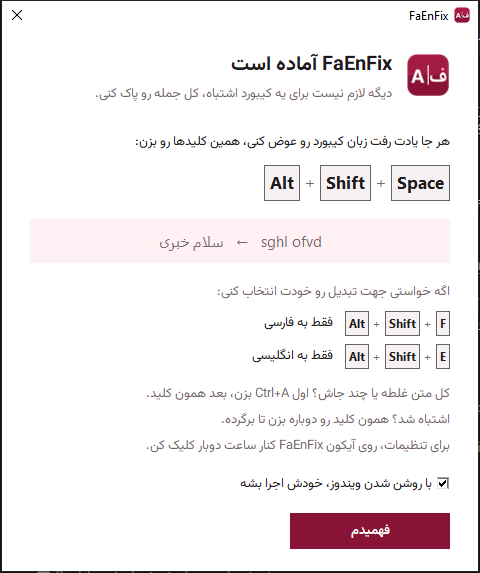
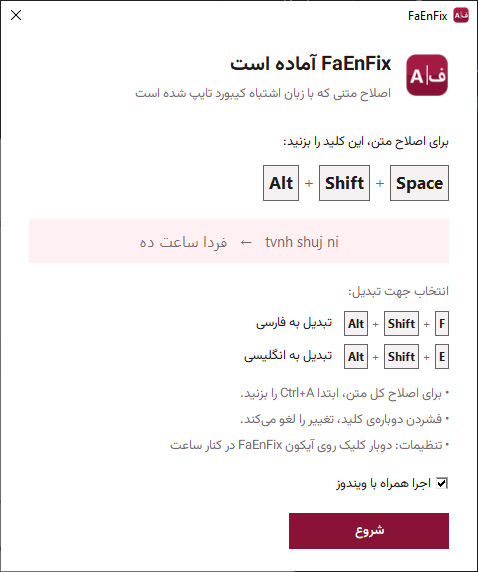
Professional README and standard Persian UI text
Rewrite the README in a concise structure with realistic examples, and
replace colloquial wording in the app with neutral standard Persian.

diff --git a/README.md b/README.md
@@ -1,167 +1,134 @@
-<div dir="rtl">
+<div align="center">
 
-<img src="docs/icon.png" width="72" align="left">
+<img src="docs/icon.png" width="96" alt="FaEnFix">
 
 # FaEnFix
 
-**یادت رفت کیبورد را عوض کنی؟ فقط یک شورتکات بزن.**
+**اصلاح متنی که با زبان اشتباه کیبورد تایپ شده، با یک کلید**
 
-اگر به جای «سلام» نوشتی `sghl` یا به جای `hello` نوشتی «اثممخ»، FaEnFix متن را در هر برنامهای درست میکند: تلگرام، ورد، مرورگر، VS Code و بقیه. بعد از اصلاح، زبان کیبورد هم خودش عوض میشود تا بقیهی متن را درست تایپ کنی.
+[![Release](https://img.shields.io/github/v/release/mr-baft/FaEnFix?style=flat-square&color=881337)](../../releases/latest)
+[![Downloads](https://img.shields.io/github/downloads/mr-baft/FaEnFix/total?style=flat-square&color=881337)](../../releases)
+[![Windows](https://img.shields.io/badge/Windows-10%20%7C%2011-881337?style=flat-square)](#)
+[![License](https://img.shields.io/badge/license-MIT-881337?style=flat-square)](LICENSE)
 
-| نوشتی | بعد از شورتکات |
+[فارسی](#) · [English](#english)
+
+</div>
+
+<div dir="rtl">
+
+## FaEnFix چیست؟
+
+ابزاری رایگان و متنباز برای ویندوز که متن تایپشده با زبان اشتباه کیبورد را، در هر برنامهای، به فارسی یا انگلیسی درست تبدیل میکند.
+
+<div align="center">
+
+| تایپشده | نتیجه |
 |---|---|
-| `sghl ofvd` | سلام خبری |
-| `hello sghl` | hello سلام |
-| سلام `lk ldo,hl` | سلام من میخوام |
-| اثممخ صخقمی | `hello world` |
+| `tvnh shuj ni [gsi nhvdl` | فردا ساعت ده جلسه داریم |
+| حمثشسث سثدی پث فاث بهدشم قثحخقف | `please send me the final report` |
+| `gxth thdg` حقثسثدفشفهخد را تا `tvnh` برای team بفرستید | لطفا فایل presentation را تا فردا برای team بفرستید |
 
-<p align="center"><img src="docs/welcome.png" width="440"></p>
+<img src="docs/welcome.png" width="440" alt="FaEnFix">
 
----
+</div>
 
-## نصب (۳۰ ثانیه)
+## ✨ امکانات
 
-<p align="center"><a href="../../releases/latest/download/FaEnFix-Setup.exe"><b>⬇ دانلود FaEnFix-Setup.exe</b></a></p>
+- کار در همهی برنامهها: تلگرام، Word، مرورگر، VS Code و ترمینال
+- اصلاح فقط کلمههای اشتباه، حتی در متنهای طولانی و دوزبانه
+- پشتیبانی از فارسی محاورهای و نیمفاصله
+- سازگار با کیبوردهای «فارسی» و «فارسی استاندارد»
+- تغییر خودکار زبان کیبورد پس از اصلاح
+- آفلاین، بدون نیاز به دسترسی ادمین، اجرا در پسزمینه
 
-1. فایل `FaEnFix-Setup.exe` را دانلود و اجرا کن، و **Install** را بزن.
-2. همین! برنامه همان لحظه اجرا میشود و (اگر تیک «Start FaEnFix automatically» را برنداری) از این به بعد با روشن شدن ویندوز، بیصدا در پسزمینه بالا میآید.
+## 📥 دانلود
 
-FaEnFix هیچ اطلاعاتی به اینترنت نمیفرستد ([Privacy policy](#privacy-policy)).
+<div align="center">
 
-- دسترسی ادمین لازم نیست و نیازی به نصب AutoHotkey یا هیچ چیز دیگری نیست.
-- آیکونش کنار ساعت ویندوز است (اگر نمیبینی، روی فلش `^` کنار ساعت بزن).
-- **نسخهی قابلحمل:** اگر نصب نمیخواهی، از [Releases](../../releases/latest) فایل `FaEnFix.exe` را بگیر و جایی ثابت بگذار. با اولین اجرا خودش را به اجرای خودکار ویندوز اضافه میکند.
+[![Setup](https://img.shields.io/badge/دانلود-FaEnFix--Setup.exe-881337?style=for-the-badge&logo=windows&logoColor=white)](../../releases/latest/download/FaEnFix-Setup.exe)
+&nbsp;
+[![Portable](https://img.shields.io/badge/نسخهی_قابلحمل-FaEnFix.exe-75686C?style=for-the-badge&logo=windows&logoColor=white)](../../releases/latest/download/FaEnFix.exe)
 
-> **هشدار ویندوز:** تا وقتی امضای دیجیتال ([Code signing policy](#code-signing-policy)) فعال نشده، ممکن است SmartScreen بگوید «Windows protected your PC». روی **More info** و بعد **Run anyway** بزن. بعضی آنتیویروسها هم برنامههای AutoHotkey را اشتباهی مشکوک میدانند. اگر نگرانی، کد کامل در همین مخزن است و میتوانی [خودت بسازیاش](#اجرا-از-روی-کد).
+</div>
 
----
+> [!NOTE]
+> اگر ویندوز پیام «Windows protected your PC» نمایش داد، روی **More info** و سپس **Run anyway** کلیک کنید.
 
-## شورتکاتها
+## ⌨ کلیدهای میانبر
 
-| شورتکات | کار |
+| کلید | عملکرد |
 |---|---|
-| <kbd>Shift</kbd>+<kbd>Alt</kbd>+<kbd>Space</kbd> یا <kbd>Pause</kbd> | تبدیل خودکار: خودش جهت را تشخیص میدهد (مثل عوض کردن زبان ویندوز، فقط با Space) |
-| <kbd>Shift</kbd>+<kbd>Alt</kbd>+<kbd>F</kbd> | حتماً به **فارسی** |
-| <kbd>Shift</kbd>+<kbd>Alt</kbd>+<kbd>E</kbd> | حتماً به **انگلیسی** |
-| همان شورتکات خودکار، دوباره | برگرداندن آخرین تغییر |
+| <kbd>Shift</kbd>+<kbd>Alt</kbd>+<kbd>Space</kbd> یا <kbd>Pause</kbd> | تبدیل خودکار |
+| <kbd>Shift</kbd>+<kbd>Alt</kbd>+<kbd>F</kbd> | تبدیل به فارسی |
+| <kbd>Shift</kbd>+<kbd>Alt</kbd>+<kbd>E</kbd> | تبدیل به انگلیسی |
 
-همه را میتوانی در تنظیمات عوض کنی.
+- برای اصلاح کل متن، ابتدا <kbd>Ctrl</kbd>+<kbd>A</kbd> را بزنید.
+- فشردن دوبارهی کلید، آخرین تبدیل را لغو میکند.
 
-## چطور کار میکند؟
+## ⚙ تنظیمات
 
-**کدام متن تبدیل میشود؟**
-- اگر متنی را **انتخاب** کرده باشی (مثلاً کل متن با <kbd>Ctrl</kbd>+<kbd>A</kbd>)، تکتک کلمههایش بررسی میشوند و **هر کلمهی اشتباه، هر جای متن**، درست میشود. یعنی اگر وسط یک پاراگراف بلند چند کلمه یا چند جمله را اشتباهی تایپ کردهای، یا کل یک متن دوزبانه را برعکس نوشتهای، با یک شورتکات همه درست میشوند و بقیهی متن دست نمیخورد.
-- اگر چیزی انتخاب نکرده باشی، از مکاننما به عقب میرود تا جایی که خط (فارسی/انگلیسی) عوض شده. پس در «سلام `khl ofvd`»، کلمهی «سلام» دست نمیخورد.
-- با **فرهنگ لغت** (حدود ۴۷ هزار کلمهی انگلیسی و ۳۷ هزار کلمهی فارسی) هر کلمه جداگانه بررسی میشود: آیا خودش کلمهی معناداری است، یا نسخهی تبدیلشدهاش؟ برای همین در `hello sghl` فقط `sghl` تبدیل میشود. کلمهای که در هیچکدام از دو فرهنگ نیست (مثل اسمها) تابع کلمهی کناریاش میشود.
-- **محاورهای هم بلد است.** فرهنگ لغت فارسی از زیرنویس فیلمها ساخته شده، پس «میخوام»، «اینو»، «چیکار»، «نمیام» و امثالشان را میشناسد. نیمفاصلهی «می» و «نمی» هم خودش برمیگردد.
+با دوبار کلیک روی آیکون FaEnFix در کنار ساعت ویندوز.
 
-**کیبورد تو را میشناسد.** جدول تبدیل ثابت نیست؛ مستقیم از کیبوردهای نصبشده روی ویندوز خوانده میشود. پس «فارسی» قدیمی ویندوز، «فارسی استاندارد» (ISIRI 9147) و هر چیدمان انگلیسی درست کار میکنند.
+<div align="center"><img src="docs/settings.png" width="470" alt="تنظیمات"></div>
 
-**کلیپبوردت امن است.** برنامه برای خواندن متن از کپی/پیست استفاده میکند، ولی بعد از کار، محتوای قبلی کلیپبورد را برمیگرداند.
+<details>
+<summary><b>نکتهها</b></summary>
 
-## تنظیمات
+<br>
 
-روی آیکون FaEnFix کنار ساعت دوبار کلیک کن (یا راستکلیک ← **تنظیمات…**).
+- در VS Code، کلید <kbd>Shift</kbd>+<kbd>Alt</kbd>+<kbd>F</kbd> برای «Format Document» استفاده میشود و میتوان آن را در تنظیمات تغییر داد.
+- برای کار در برنامههایی که با دسترسی ادمین اجرا شدهاند، گزینهی مربوط را در تنظیمات فعال کنید.
+- کلمهای که در فرهنگ لغت نیست، مانند برخی نامها، از کلمهی مجاورش پیروی میکند. در صورت تبدیل نادرست، فقط همان بخش را انتخاب و تبدیل کنید.
 
-<img src="docs/settings.png" width="470">
+</details>
 
-- **شورتکاتها:** روی «تغییر» بزن و ترکیب کلید دلخواهت را فشار بده. <kbd>Backspace</kbd> شورتکات را خالی (غیرفعال) میکند و <kbd>Esc</kbd> لغو میکند.
-- **عوض کردن زبان کیبورد بعد از اصلاح**
-- **فرهنگ لغت:** اگر خاموش باشد، کل متن از ابتدای خط تا مکاننما تبدیل میشود.
-- **پیام کوچک بعد از هر تبدیل**
-- **اجرا با روشن شدن ویندوز**
-- **کار در برنامههایی که با Run as administrator باز شدهاند:** یک بار تأیید ویندوز میخواهد و بعد از آن FaEnFix با دسترسی بالا بالا میآید.
-- **برنامههای مستثنا:** نام فایل exe برنامههایی که FaEnFix نباید در آنها کار کند (اسمش را در Task Manager ← Details میبینی).
+<details>
+<summary><b>توسعه</b></summary>
 
-دکمهی **تنظیمات اولیه** همهچیز را به حالت اول برمیگرداند. تنظیمات در `%AppData%\FaEnFix\settings.ini` ذخیره میشوند و دستی هم قابل ویرایشاند:
+<br>
 
-```ini
-[hotkeys]
-auto=+!vk20        ; Shift+Alt+Space   (^ = Ctrl, + = Shift, ! = Alt, # = Win)
-auto2=vk13         ; Pause
-to_fa=+!vk46       ; Shift+Alt+F
-to_en=+!vk45       ; Shift+Alt+E
-[options]
-switch_layout=1
-use_dictionary=1
-notify=1
-[apps]
-exclude=WindowsTerminal.exe,cmd.exe,powershell.exe
-```
-
-## محدودیتها و نکتهها
-
-- **ترمینالها:** در cmd، PowerShell، Windows Terminal و مشابهها غیرفعال است، چون آنجا <kbd>Ctrl</kbd>+<kbd>C</kbd> برنامهی در حال اجرا را متوقف میکند. در VS Code و ویرایشگرهای مشابه، FaEnFix به جای <kbd>Ctrl</kbd>+<kbd>C</kbd> از <kbd>Ctrl</kbd>+<kbd>Insert</kbd> استفاده میکند، پس ترمینال داخل آنها هم امن است.
-- **VS Code:** <kbd>Shift</kbd>+<kbd>Alt</kbd>+<kbd>F</kbd> در VS Code یعنی «Format Document». اگر به آن نیاز داری، در تنظیمات شورتکات «تبدیل به فارسی» را عوض کن.
-- **برنامههایی که با Run as administrator باز شدهاند:** ویندوز اجازه نمیدهد برنامهی معمولی به آنها کلید بفرستد. گزینهاش را در تنظیمات روشن کن.
-- کلمهای که در هیچ فرهنگ لغتی نیست (مثلاً اسم خاص با حروف کوچک) ممکن است همراه کلمهی کناریاش تبدیل شود. اگر شد، همان شورتکات را دوباره بزن تا برگردد، بعد فقط بخش اشتباه را انتخاب کن.
-- فقط حروف و علامتهای اصلی کیبورد تبدیل میشوند، نه حروفی که با <kbd>AltGr</kbd> تایپ میشوند.
-
-## حذف
-
-از **Settings ← Apps** ویندوز، FaEnFix را Uninstall کن. برنامه، اجرای خودکار و تنظیماتش کامل پاک میشوند.
-
-نسخهی قابلحمل: راستکلیک روی آیکون کنار ساعت، تیک «اجرا با روشن شدن ویندوز» را بردار و **خروج** را بزن. بعد فایل `FaEnFix.exe` و پوشهی `%AppData%\FaEnFix` را پاک کن.
-
----
-
-## اجرا از روی کد
-
-1. [AutoHotkey v2](https://www.autohotkey.com) را نصب کن (یا `winget install AutoHotkey.AutoHotkey`).
-2. مخزن را دانلود کن و روی `FaEnFix.ahk` دوبار کلیک کن. فرهنگ لغتها در پوشهی `dict` هستند.
-
-ساخت exe روی سیستم خودت (نیاز به [Ahk2Exe](https://github.com/AutoHotkey/Ahk2Exe/releases) دارد):
+نیازمند [AutoHotkey v2](https://www.autohotkey.com):
 
 ```powershell
-powershell -ExecutionPolicy Bypass -File tools\build.ps1
+AutoHotkey64.exe FaEnFix.ahk                                    # اجرا
+powershell -ExecutionPolicy Bypass -File tools\build.ps1        # ساخت exe
+AutoHotkey64.exe /ErrorStdOut tests\unit.ahk                    # تست
 ```
 
-تستها: `tests\unit.ahk` (منطق تبدیل، بیش از ۳۰ حالت) و `tests\e2e-notepad.ahk` (کلیدزدن واقعی در Notepad).
+با هر تگ `v*`، نسخهی جدید توسط GitHub Actions ساخته و منتشر میشود.
 
-ساخت دوبارهی فرهنگ لغتها: `tools\build-dict.ps1` — آیکون: `python tools\make-icon.py`
+</details>
 
-### انتشار نسخهی جدید
+## 📄 مجوز
 
-با هر تگ `v*`، GitHub Actions خودش نصبکننده (`FaEnFix-Setup.exe`، با [Inno Setup](https://jrsoftware.org/isinfo.php)) و نسخهی قابلحمل (`FaEnFix.exe`) را میسازد و در Releases میگذارد:
-
-```bash
-git tag v1.1.0
-git push origin v1.1.0
-```
-
-## مجوز
-
-کد تحت مجوز [MIT](LICENSE) است. فرهنگ لغتها از [FrequencyWords](https://github.com/hermitdave/FrequencyWords) (بر پایهی OpenSubtitles) گرفته شدهاند و مجوز [CC-BY-SA 4.0](https://creativecommons.org/licenses/by-sa/4.0/) دارند. فونت برنامه [وزیرمتن](https://github.com/rastikerdar/vazirmatn) است، با مجوز [OFL](fonts/OFL.txt).
+[MIT](LICENSE) · فرهنگ لغتها: [FrequencyWords](https://github.com/hermitdave/FrequencyWords) (CC-BY-SA 4.0) · فونت: [وزیرمتن](https://github.com/rastikerdar/vazirmatn) (OFL)
 
 </div>
 
 ---
 
-### English
+## English
 
-**FaEnFix** fixes text typed with the wrong keyboard layout (Persian ⇄ English) in any Windows app. Download [**FaEnFix-Setup.exe**](../../releases/latest/download/FaEnFix-Setup.exe) and click Install — no admin rights needed. It starts right away and then runs silently in the background at every Windows startup. A portable `FaEnFix.exe` is also in [Releases](../../releases/latest).
+**FaEnFix** is a free, open-source Windows tool that fixes text typed with the wrong keyboard layout (Persian ⇄ English) in any application.
 
-- <kbd>Shift</kbd>+<kbd>Alt</kbd>+<kbd>Space</kbd> / <kbd>Pause</kbd>: auto-detect direction (press again to undo) · <kbd>Shift</kbd>+<kbd>Alt</kbd>+<kbd>F</kbd>: to Persian · <kbd>Shift</kbd>+<kbd>Alt</kbd>+<kbd>E</kbd>: to English
-- Select any text (even Ctrl+A) and every mistyped word anywhere in it is fixed, including fully swapped bilingual text and colloquial Persian. With no selection it works from the caret back to where the script changes. Built-in dictionaries decide word by word, so `hello sghl` becomes `hello سلام`.
-- Reads the mapping from your installed layouts (Persian, Persian Standard, any English layout); restores your clipboard; switches the layout afterwards.
-- Everything is configurable from the tray icon → Settings (saved in `%AppData%\FaEnFix\settings.ini`).
-- Starting with Windows is a checkbox in the installer (on by default) and can be turned off from the tray menu or Settings.
+- <kbd>Shift</kbd>+<kbd>Alt</kbd>+<kbd>Space</kbd> or <kbd>Pause</kbd>: convert (auto-detect) · <kbd>Shift</kbd>+<kbd>Alt</kbd>+<kbd>F</kbd>: to Persian · <kbd>Shift</kbd>+<kbd>Alt</kbd>+<kbd>E</kbd>: to English
+- Fixes only the mistyped words, even in long bilingual text; supports colloquial Persian
+- Offline, no admin rights required, runs in the background
 
----
+**Download:** [FaEnFix-Setup.exe](../../releases/latest/download/FaEnFix-Setup.exe) · [portable FaEnFix.exe](../../releases/latest/download/FaEnFix.exe)
 
-## Code signing policy
+### Code signing policy
 
 Free code signing provided by [SignPath.io](https://about.signpath.io), certificate by [SignPath Foundation](https://signpath.org).
 
 - **Committers and reviewers:** [mr-baft](https://github.com/mr-baft)
 - **Approvers:** [mr-baft](https://github.com/mr-baft)
 
-Every release is built from this repository's source by [GitHub Actions](.github/workflows/release.yml) and each signing request is approved manually. Only `FaEnFix.exe` and `FaEnFix-Setup.exe` built here are signed.
+Every release is built from this repository's source by [GitHub Actions](.github/workflows/release.yml) and each signing request is approved manually.
 
-## Privacy policy
+### Privacy policy
 
-This program will not transfer any information to other networked systems unless specifically requested by the user or the person installing or operating it.
+This program will not transfer any information to other networked systems unless specifically requested by the user or the person installing or operating it. It reads the selected text only when its shortcut is pressed, restores the clipboard afterwards, and stores settings in `%AppData%\FaEnFix`.
 
-FaEnFix works entirely on your computer: it reads the text you select (through the clipboard, which it restores afterwards) only when you press its shortcut, and stores its settings in `%AppData%\FaEnFix`. The only network action is opening this GitHub page in your browser when you click "GitHub page" or "Help".
-
-Bundled third-party components: the [AutoHotkey](https://www.autohotkey.com) v2 runtime (GPL-2.0), the [Vazirmatn](https://github.com/rastikerdar/vazirmatn) font (OFL-1.1), word lists from [FrequencyWords](https://github.com/hermitdave/FrequencyWords) (CC-BY-SA 4.0), and the installer is built with [Inno Setup](https://jrsoftware.org/isinfo.php). None of them send data anywhere.
+Bundled components: [AutoHotkey](https://www.autohotkey.com) v2 runtime (GPL-2.0), [Vazirmatn](https://github.com/rastikerdar/vazirmatn) font (OFL-1.1), [FrequencyWords](https://github.com/hermitdave/FrequencyWords) word lists (CC-BY-SA 4.0), [Inno Setup](https://jrsoftware.org/isinfo.php) installer.
